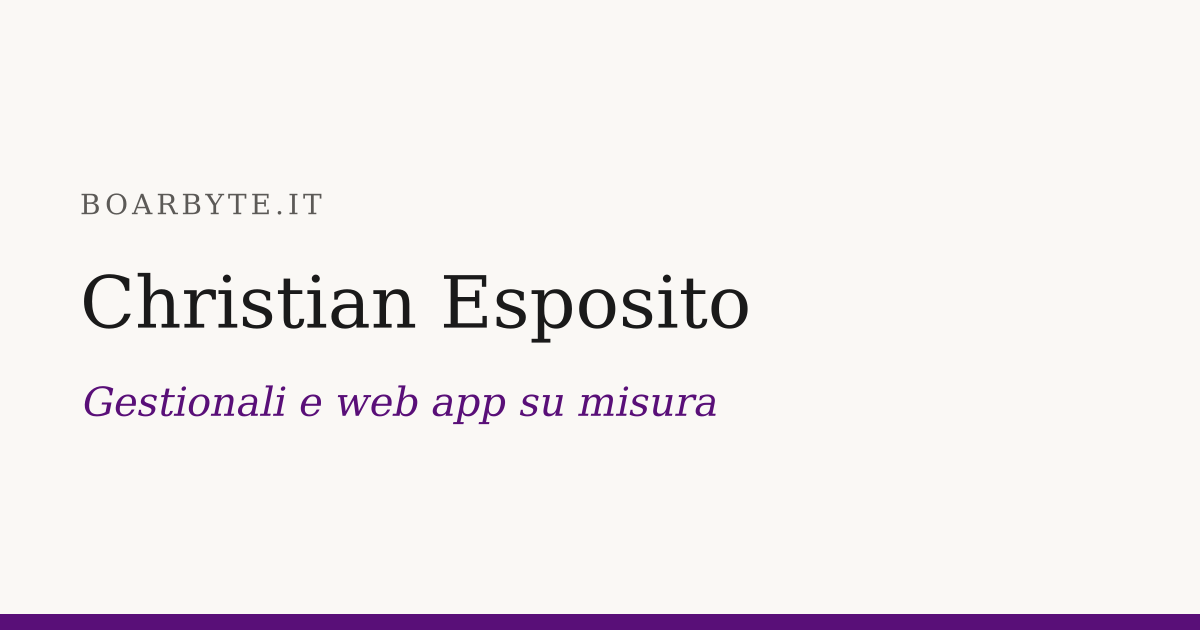
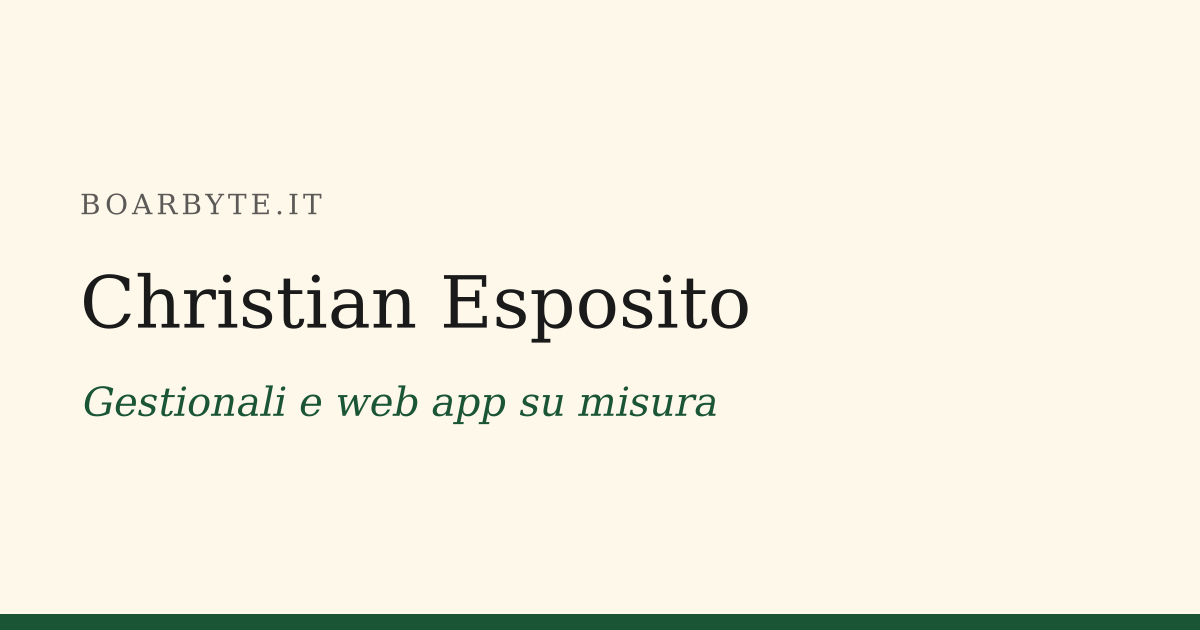
Ultimato restyling

Changed region(s): [[0.0, 0.9651, 1.0, 1.0], [0.0617, 0.6032, 0.6167, 0.6635]]

diff --git a/src/styles/global.css b/src/styles/global.css
@@ -1,10 +1,13 @@
 :root {
-  --bg: #faf8f5;
+  --bg: #fef8eb;
   --surface: #ffffff;
   --text: #1a1a1a;
   --muted: #5c5a57;
-  --line: #e6e1da;
-  --accent: #590f78;
+  --line: #ebdfc8;
+  --accent: #1a5536;
+  /* Arancio del logo: solo decorativo, non regge il testo (contrasto 3.3:1) */
+  --accent-2: #cb741c;
+  --dot: #e2d5bb;
   --accent-ink: #ffffff;
 
   --font-display: 'Fraunces Variable', Georgia, 'Times New Roman', serif;
@@ -51,7 +54,7 @@ html {
 
 body {
   margin: 0;
-  background: var(--bg);
+  background: var(--bg) radial-gradient(circle, var(--dot) 1px, transparent 1.4px) 0 0 / 22px 22px;
   color: var(--text);
   font-family: var(--font-body);
   font-size: var(--step-0);
@@ -95,6 +98,11 @@ a {
 
 a:hover {
   color: var(--accent);
+  text-decoration-color: var(--accent-2);
+}
+
+::selection {
+  background: #f6dcbc;
 }
 
 :focus-visible {
@@ -119,6 +127,17 @@ a:hover {
   letter-spacing: 0.12em;
   text-transform: uppercase;
   color: var(--muted);
+}
+
+/* Trattino arancio davanti alle etichette */
+.eyebrow::before {
+  content: '';
+  display: inline-block;
+  width: 1.5rem;
+  height: 2px;
+  margin-right: 0.6rem;
+  vertical-align: middle;
+  background: var(--accent-2);
 }
 
 .lead {
@@ -192,3 +211,4 @@ a:hover {
   background: var(--text);
   color: var(--bg);
 }
+
